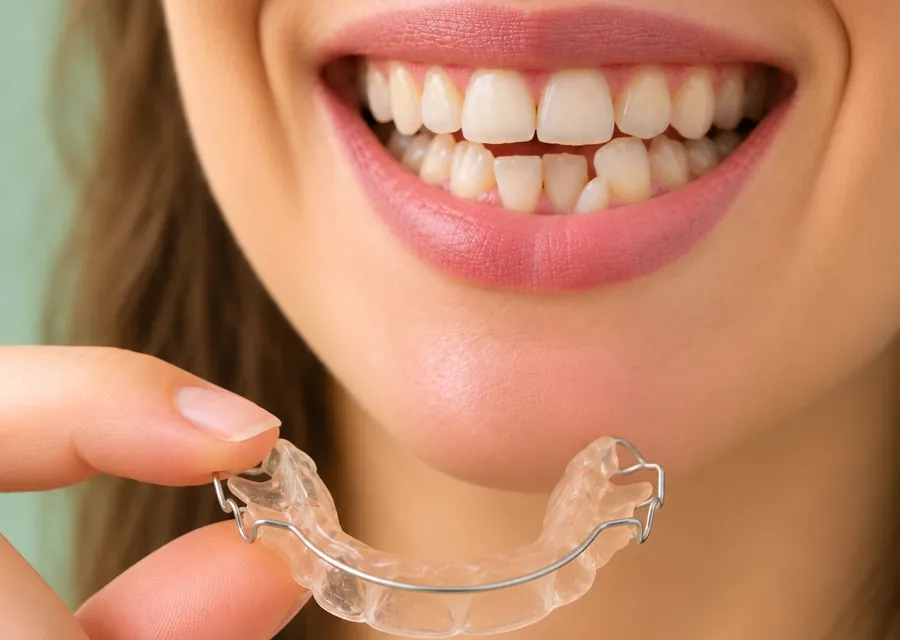
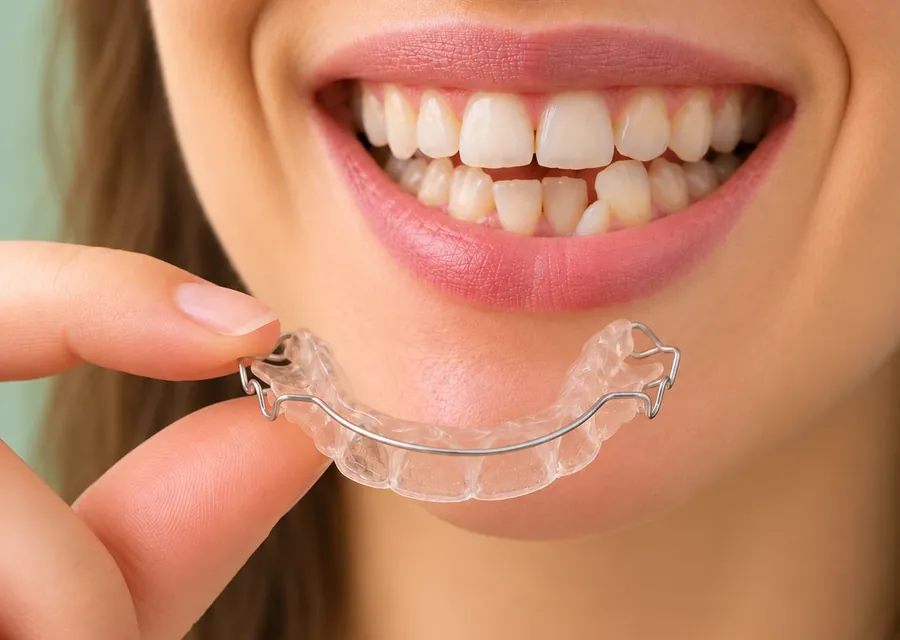
Troca a foto 5 por uma com a contenção na altura da foto 6
A contenção sobe para logo abaixo do lábio e aparece inteira. O corte das fotos 5 e 6 volta a ser igual e a regra de janelas baixas deixa de ser necessária.

Claude-Session: https://claude.ai/code/session_013ZBAMFUUhj3y7DouA4XRGk

diff --git a/styles.css b/styles.css
@@ -228,15 +228,10 @@ body.menu-aberto { overflow: hidden; }
     .situacoes { gap: 20px; }
     .situacao-img { aspect-ratio: auto; height: clamp(140px, 25vh, 260px); }
     /* Fotos 5 e 6: a boca fica no alto e o objeto (contenção, alinhador) embaixo, então o corte extra prioriza o alto */
-    .situacoes li:nth-child(5) .situacao-img img { object-position: center 48%; }
-    .situacoes li:nth-child(6) .situacao-img img { object-position: center 30%; }
+    .situacoes li:nth-child(n+5) .situacao-img img { object-position: center 30%; }
     .situacao-texto { padding: 14px 18px 16px; }
     .situacoes h3 { margin-bottom: 4px; font-size: 1.05rem; }
     .situacoes p { font-size: .88rem; line-height: 1.5; }
-}
-/* Janelas baixas (notebooks): volta a priorizar o alto, para não cortar os dentes da foto 5 */
-@media (min-width: 1024px) and (max-height: 820px) {
-    .situacoes li:nth-child(5) .situacao-img img { object-position: center 30%; }
 }
 @media (hover: hover) { .situacoes li:hover { transform: translateY(-6px); box-shadow: var(--sombra-p); border-color: var(--marca); } .situacoes li:hover .situacao-img img { transform: scale(1.04); } }
 

diff --git a/index.html b/index.html
@@ -34,7 +34,7 @@
     <link rel="preconnect" href="https://fonts.gstatic.com" crossorigin>
     <link href="https://fonts.googleapis.com/css2?family=Montserrat:wght@300;400;500;600;700&display=swap" rel="stylesheet">
     <link rel="preload" as="image" href="assets/profissional/dra-nayane-topo-900.webp" imagesrcset="assets/profissional/dra-nayane-topo-560.webp 560w, assets/profissional/dra-nayane-topo-900.webp 900w" imagesizes="(min-width: 1024px) 460px, 86vw">
-    <link rel="stylesheet" href="styles.css?v=20261107-22">
+    <link rel="stylesheet" href="styles.css?v=20261107-23">
 </head>
 <body>
 
